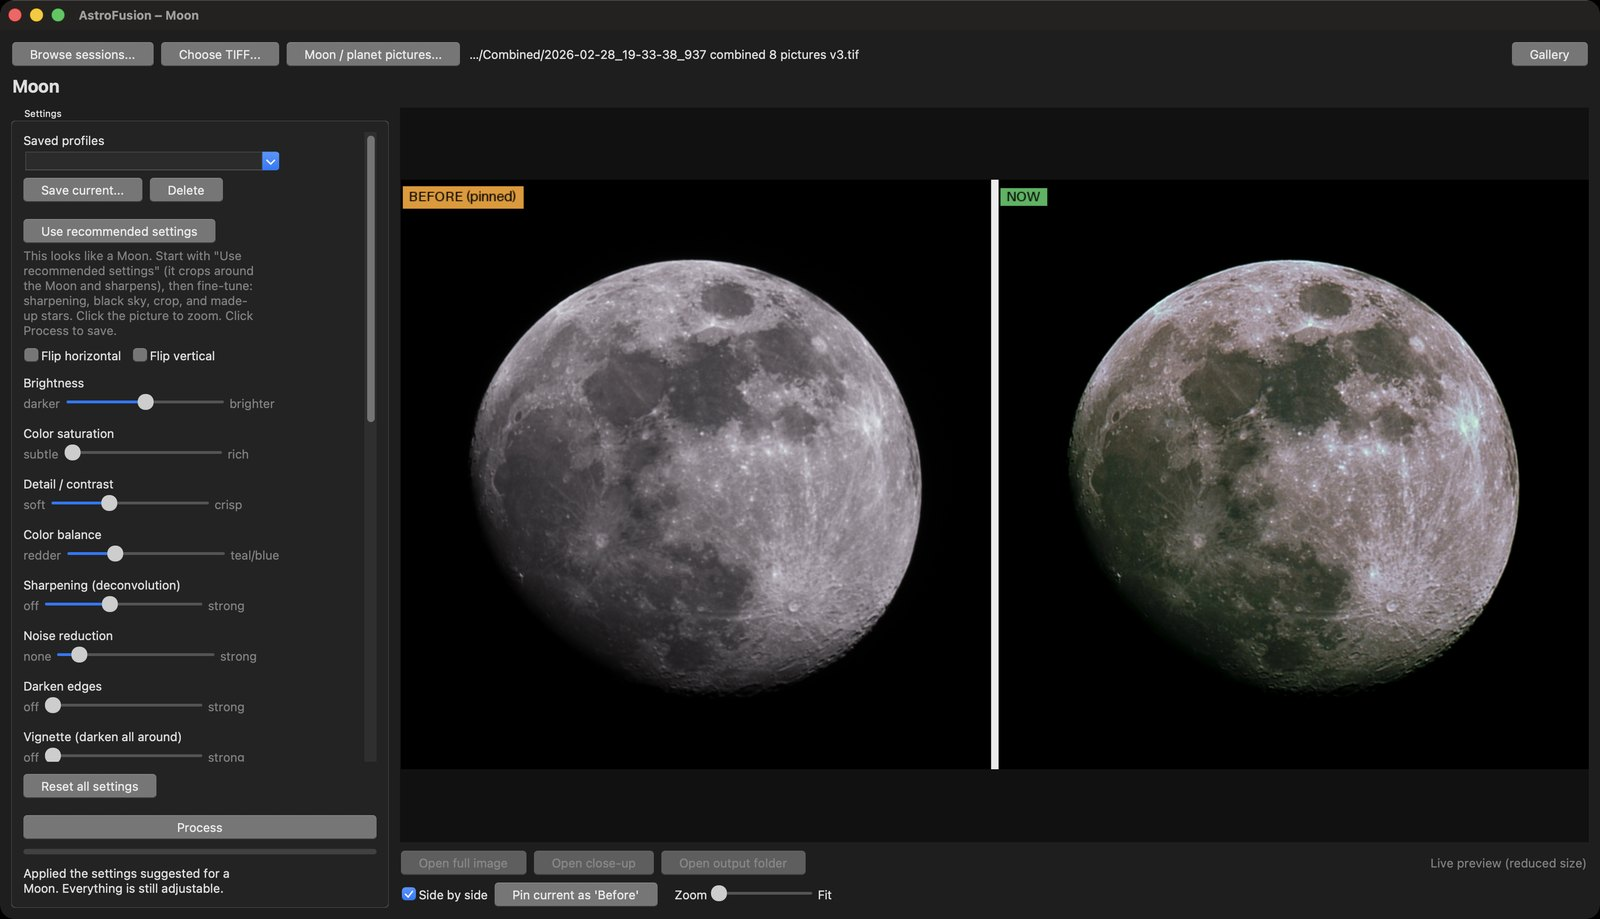
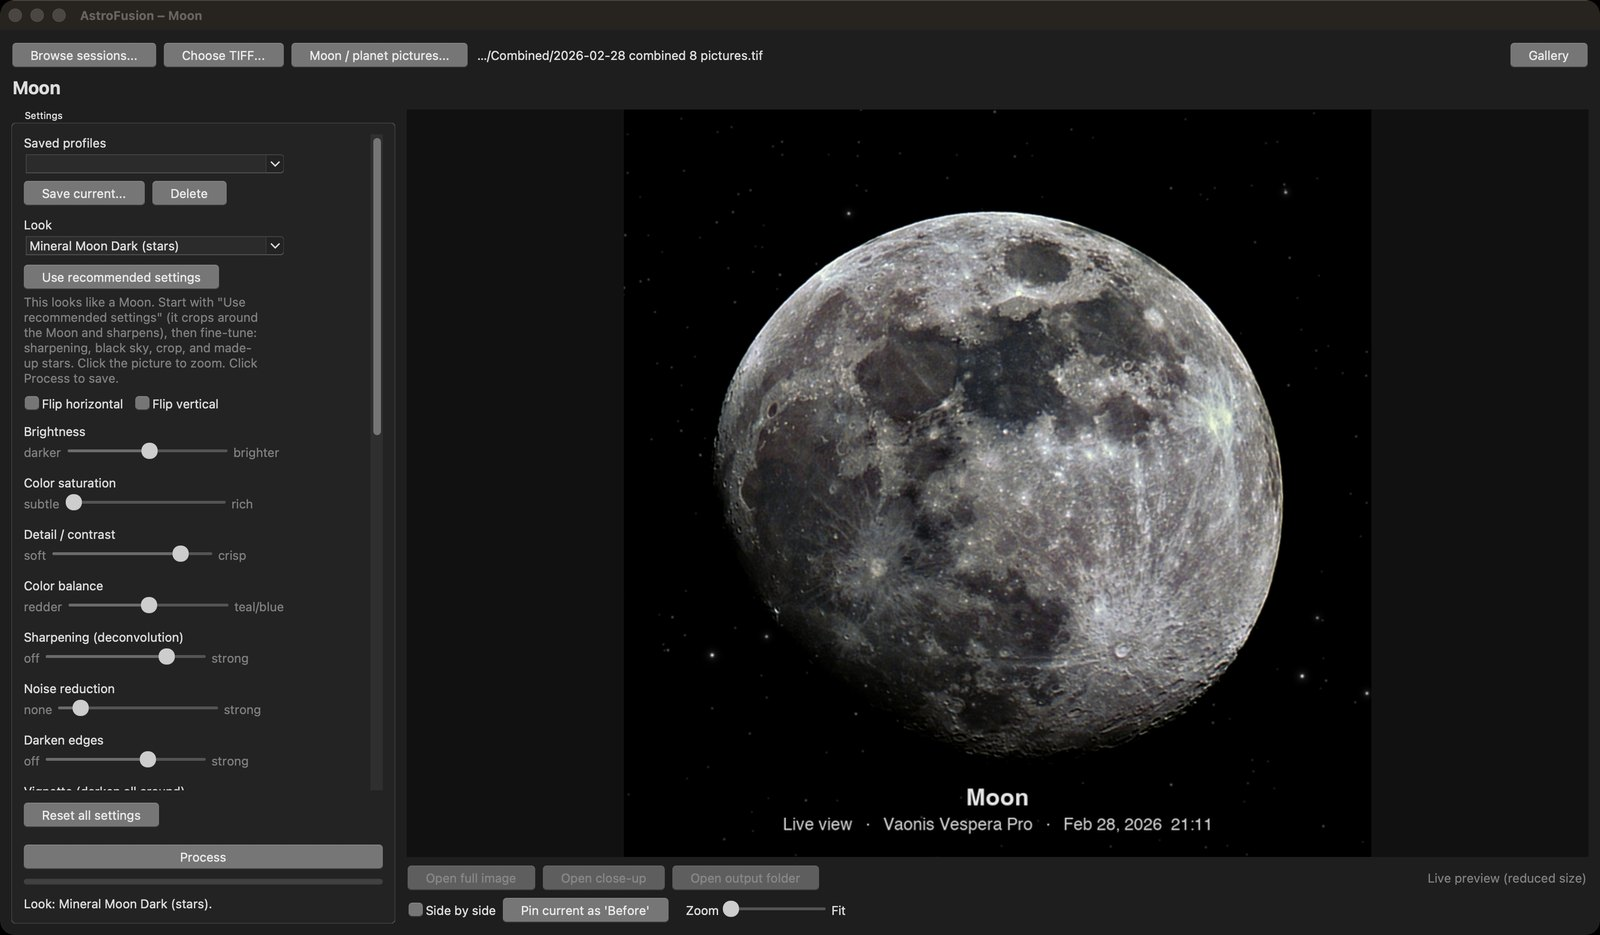
README: American spelling and new Moon screenshot (#1)
* README: American spelling

* README: Mineral Moon Dark (stars) screenshot with watermark

---------

diff --git a/README.md b/README.md
@@ -2,7 +2,7 @@
 
 Ready-to-run **AstroFusion** apps for stacked TIFFs and Moon / planet pictures from a Vaonis Vespera / Vespera Pro: live
 preview, star reduction and removal, curves, crop, watermark with capture details, recommended settings by object type.
-For the Moon and planets, line up and combine many pictures into one cleaner picture, bring out the Moon's mineral colour,
+For the Moon and planets, line up and combine many pictures into one cleaner picture, bring out the Moon's mineral color,
 and add optional made-up stars (marked as artificial in the saved file). No Python needed.
 
 **Download:** open the [latest release](../../releases/latest) and get the zip for your computer
@@ -24,8 +24,8 @@ Before on the left, now on the right, while you move the sliders. All of these a
 **The Moon, as captured and sharpened** (eight pictures lined up and combined, cropped around the Moon)
 ![AstroFusion with a combined, sharpened Moon](docs/screenshots/moon.jpg)
 
-**The Moon with Mineral colour** (brings out the faint colour differences in the surface; needs a picture that has colour). Here *Color balance* is nudged toward "redder" for warmer seas; slide it the other way for a cooler look.
-![AstroFusion with the Mineral colour control on the Moon](docs/screenshots/moon-mineral.jpg)
+**The Moon with the "Mineral Moon Dark (stars)" look** (brings out the faint color differences in the surface, deepens the sky and adds made-up stars; the Look list for Moon pictures also has "Mineral Moon" without stars and "Crisp Moon" with no color boost). The watermark at the bottom shows the details read from the pictures: *Live view*, the camera and when it was taken.
+![AstroFusion with the Mineral color control on the Moon](docs/screenshots/moon-mineral.jpg)
 
 **Gallery**: every result, with the settings that made it
 ![The AstroFusion gallery](docs/screenshots/gallery.jpg)
@@ -38,4 +38,4 @@ The apps are not signed with a paid developer certificate, so the first launch n
   `xattr -dr com.apple.quarantine ~/Downloads/AstroFusion.app`
 - **Windows:** open the `AstroFusion` folder and run `AstroFusion.exe`. If SmartScreen warns, choose **More info**, then **Run anyway**.
 
-Independent of Vaonis and not affiliated with them. Released under the MIT licence (see `LICENSE`).
+Independent of Vaonis and not affiliated with them. Released under the MIT license (see `LICENSE`).
